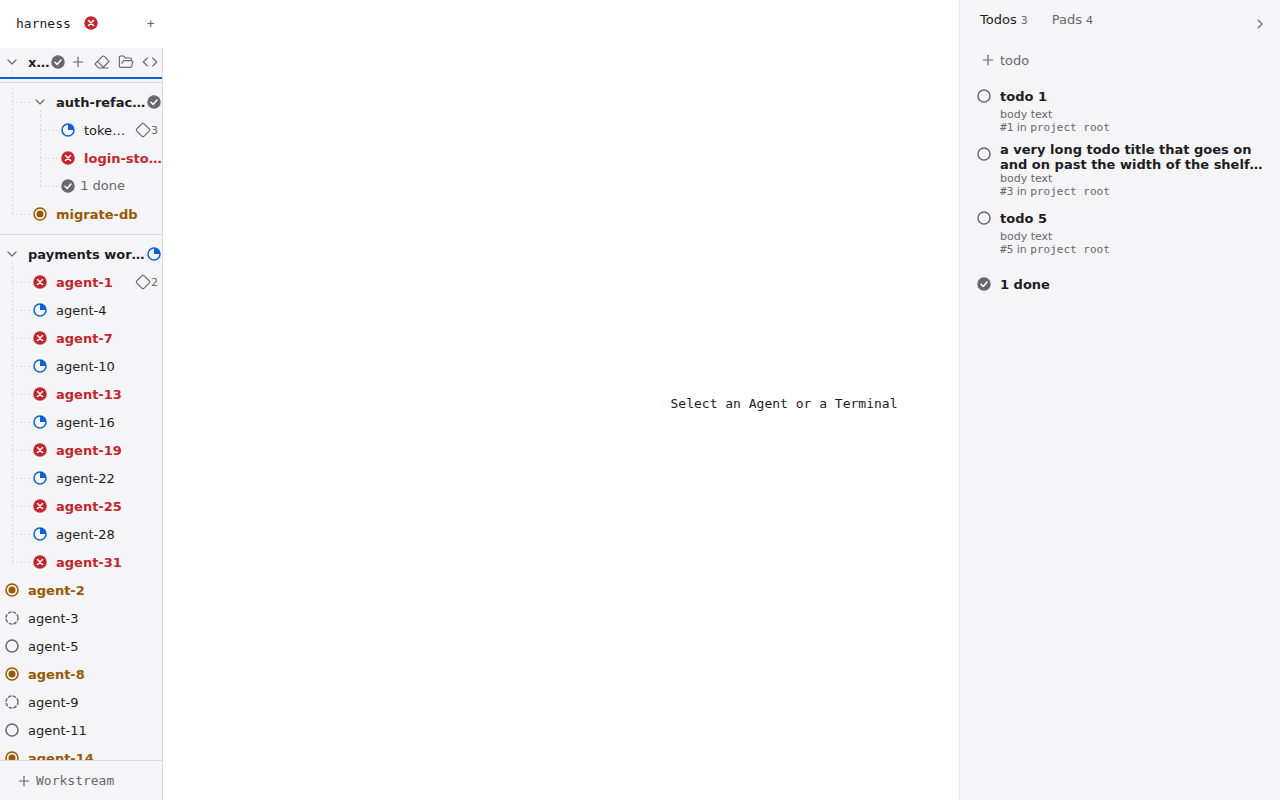
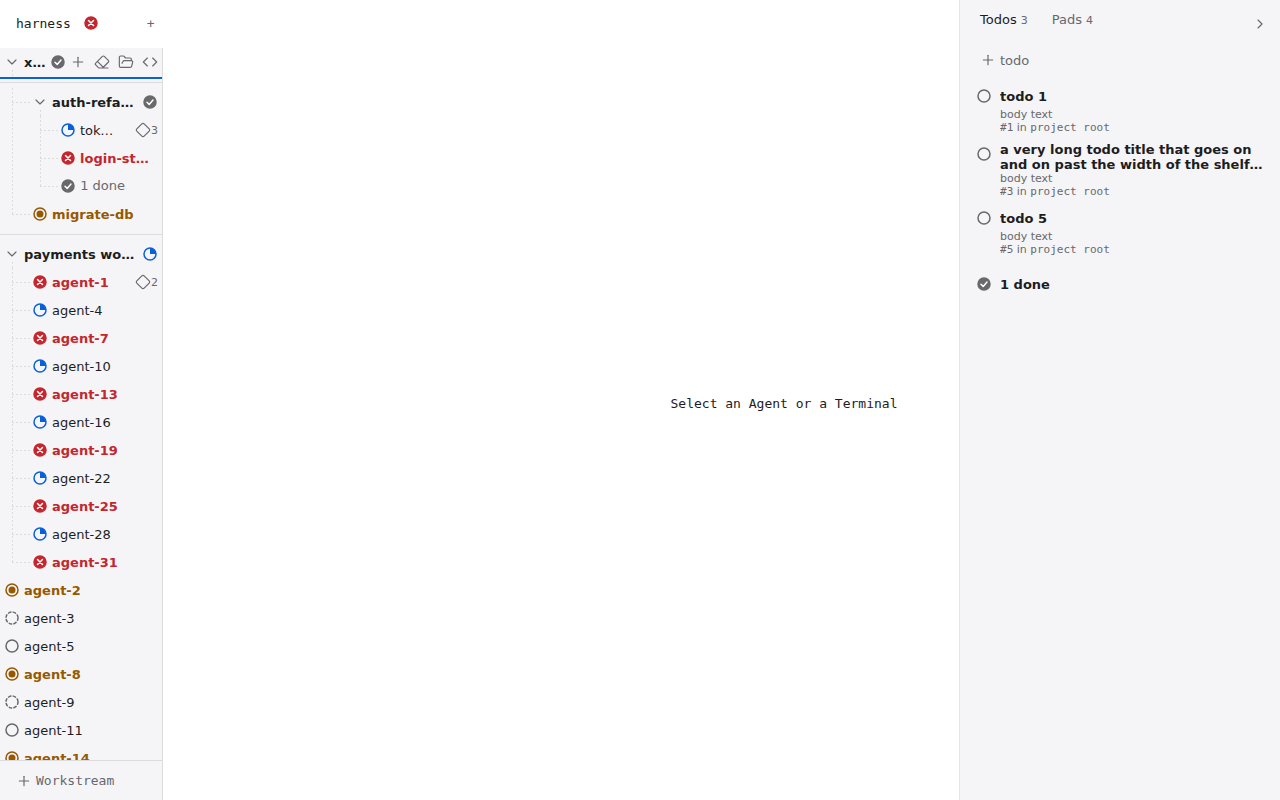
U426: retain the parent gap rule at the stress width
Author-Agent: builder-38294676414

Changed region(s): [[0.0, 0.3125, 0.125, 0.9688], [0.0312, 0.125, 0.125, 0.2188], [0.0312, 0.25, 0.125, 0.2812]]

diff --git a/apps/desktop/src/rail/u163_agents_first.test.tsx b/apps/desktop/src/rail/u163_agents_first.test.tsx
@@ -14,7 +14,7 @@ describe("u163 Agents come before Terminals", () => {
     const mounted = await mountRail([workstream("g")]);
     mounted.rail.select("g");
 
-    await waitFor(() => expect([...document.querySelectorAll(".row-icons button")].map((button) => button.getAttribute("aria-label") ?? button.textContent)).toEqual(["Add Agent", "Clear", "Open folder", "Open in editor"]));
+    await waitFor(() => expect([...document.querySelectorAll(".row-icons button")].map((button) => button.getAttribute("aria-label") ?? button.textContent)).toEqual(["Start Door", "Add Agent", "Clear", "Open folder", "Open in editor"]));
   });
 
   it("u163_on_an_empty_project_the_first_tab_stop_in_the_rail_is_new_workstream", async () => {

diff --git a/apps/desktop/src/rail/styles.css b/apps/desktop/src/rail/styles.css
@@ -453,10 +453,6 @@
   }
 
   .rail-row .line {
-    gap: 0;
-  }
-
-  .rail-row .line > :is(.name, input) {
-    margin-left: var(--space-2);
+    gap: var(--space-1);
   }
 }
